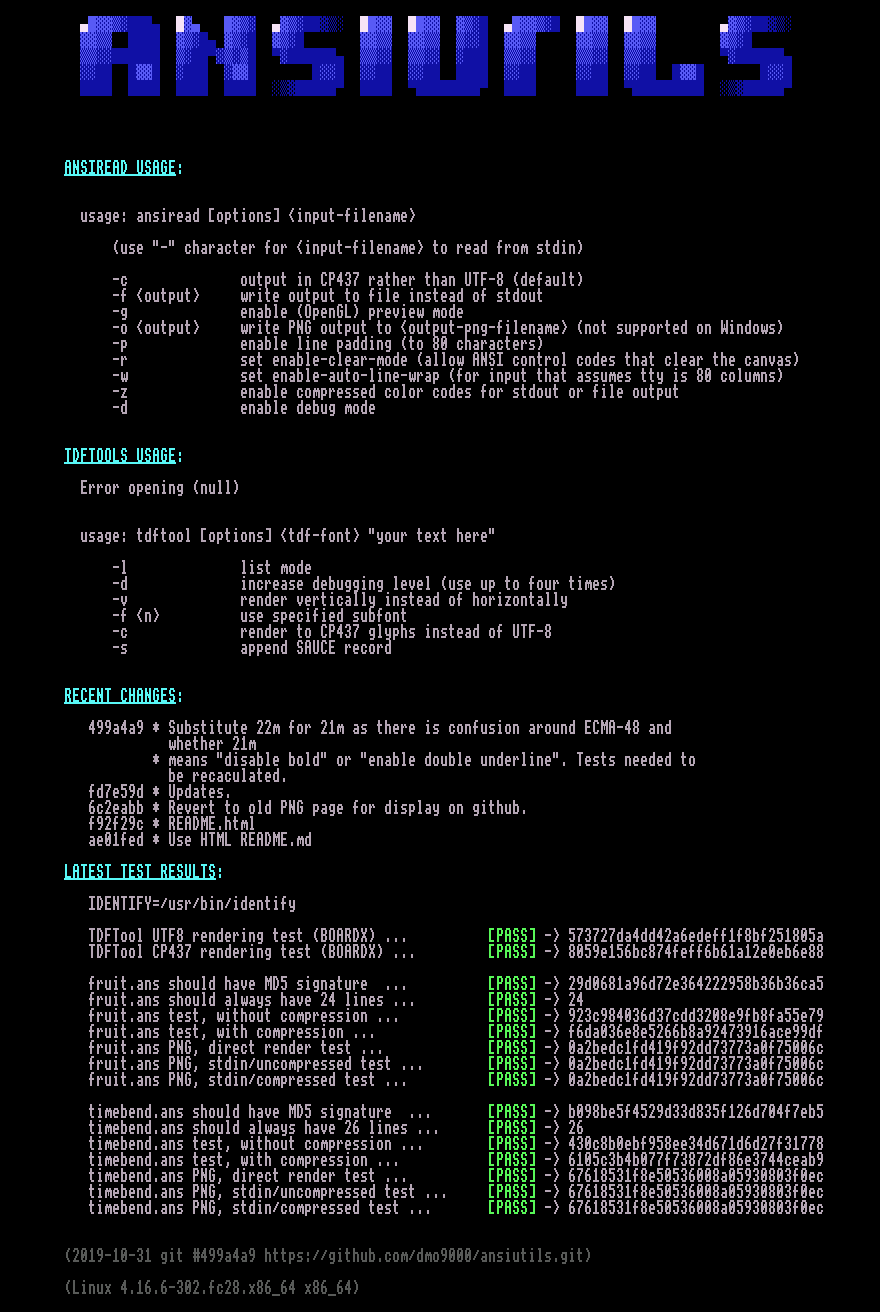
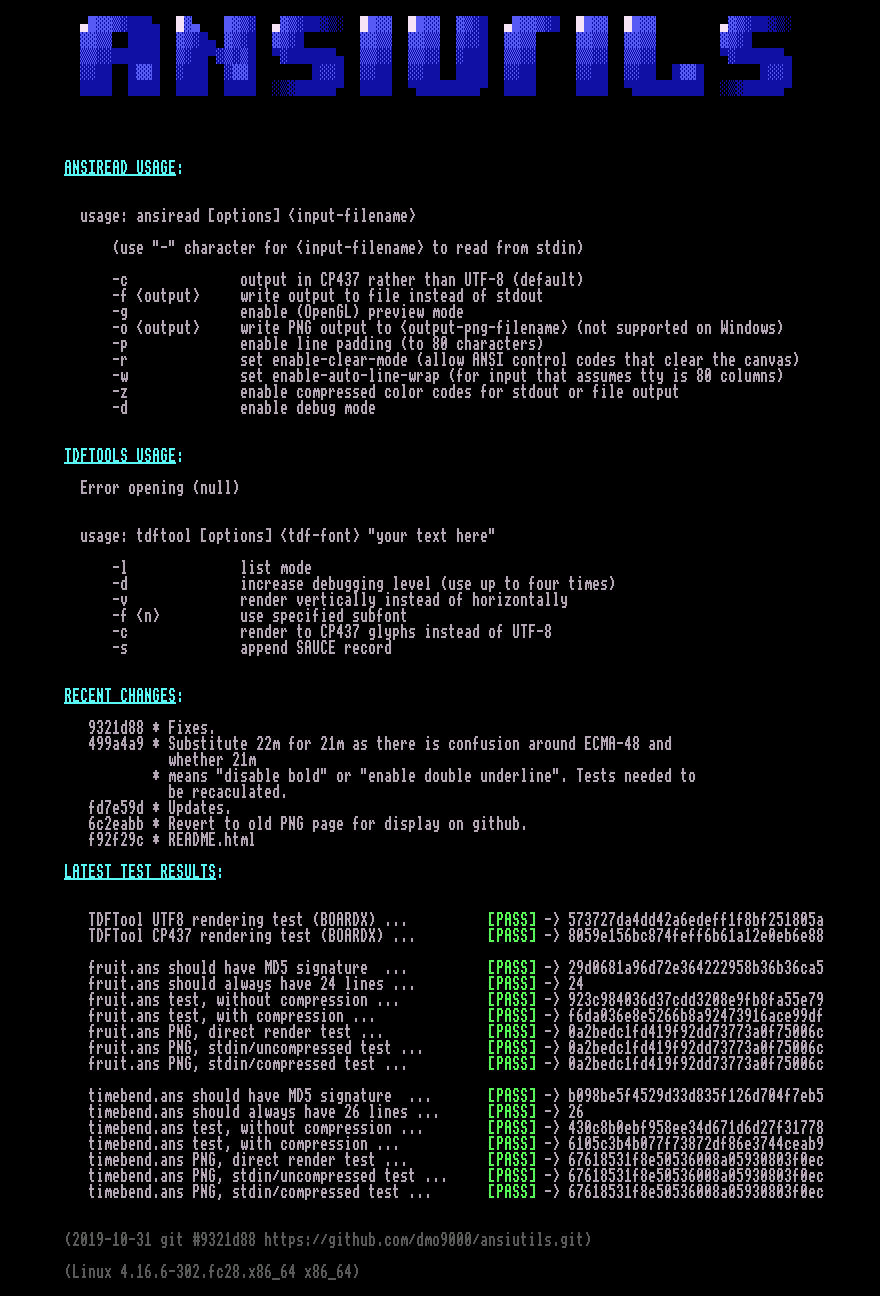
Clean up test-regress script.

diff --git a/ansiutils.html b/ansiutils.html
@@ -53,6 +53,7 @@
 
 	<span style="color:aqua;"></span><span style="text-decoration:underline;color:aqua;"></span><span style="text-decoration:underline;font-weight:bold;color:aqua;">RECENT CHANGES</span><span style="font-weight:bold;color:aqua;">:</span><span style="color:aqua;"></span>
 
+<span style="color:white;background-color:black;">           9321d88 * Fixes.</span>
 <span style="color:white;background-color:black;">           499a4a9 * Substitute 22m for 21m as there is confusion around ECMA-48 and</span>
 <span style="color:white;background-color:black;">                     whether 21m</span>
 <span style="color:white;background-color:black;">                   * means &quot;disable bold&quot; or &quot;enable double underline&quot;. Tests needed to</span>
@@ -60,11 +61,9 @@
 <span style="color:white;background-color:black;">           fd7e59d * Updates.</span>
 <span style="color:white;background-color:black;">           6c2eabb * Revert to old PNG page for display on github.</span>
 <span style="color:white;background-color:black;">           f92f29c * README.html</span>
-<span style="color:white;background-color:black;">           ae01fed * Use HTML README.md</span>
 
 	<span style="color:aqua;"></span><span style="text-decoration:underline;color:aqua;"></span><span style="text-decoration:underline;font-weight:bold;color:aqua;">LATEST TEST RESULTS</span><span style="font-weight:bold;color:aqua;">:</span><span style="color:aqua;"></span>
 
-<span style="color:white;background-color:black;">           IDENTIFY=/usr/bin/identify</span>
 <span style="color:white;background-color:black;">           </span>
 <span style="color:white;background-color:black;">           TDFTool UTF8 rendering test (BOARDX) ...          </span><span style="color:lime;background-color:black;"></span><span style="font-weight:bold;color:lime;background-color:black;">[PASS]</span><span style="font-weight:bold;color:white;background-color:black;"></span><span style="color:white;background-color:black;"> -&gt; 573727da4dd42a6edeff1f8bf251805a</span>
 <span style="color:white;background-color:black;">           TDFTool CP437 rendering test (BOARDX) ...         </span><span style="color:lime;background-color:black;"></span><span style="font-weight:bold;color:lime;background-color:black;">[PASS]</span><span style="font-weight:bold;color:white;background-color:black;"></span><span style="color:white;background-color:black;"> -&gt; 8059e156bc874feff6b61a12e0eb6e88</span>
@@ -86,7 +85,7 @@
 <span style="color:white;background-color:black;">           timebend.ans PNG, stdin/compressed test ...       </span><span style="color:lime;background-color:black;"></span><span style="font-weight:bold;color:lime;background-color:black;">[PASS]</span><span style="font-weight:bold;color:white;background-color:black;"></span><span style="color:white;background-color:black;"> -&gt; 67618531f8e50536008a05930803f0ec </span>
 <span style="color:white;background-color:black;">           </span>
 
-	<span style="color:dimgray;"></span><span style="font-weight:bold;color:dimgray;">(2019-10-31 git #499a4a9 https://github.com/dmo9000/ansiutils.git)</span><span style="color:dimgray;"></span>
+	<span style="color:dimgray;"></span><span style="font-weight:bold;color:dimgray;">(2019-10-31 git #9321d88 https://github.com/dmo9000/ansiutils.git)</span><span style="color:dimgray;"></span>
 
 	<span style="color:dimgray;"></span><span style="font-weight:bold;color:dimgray;">(Linux 4.16.6-302.fc28.x86_64 x86_64)</span><span style="color:dimgray;"></span>
                                                                                                               
